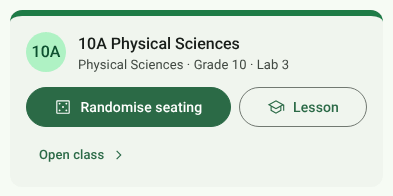
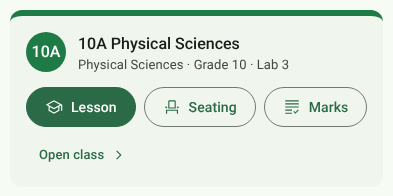
Home cards: Lesson, Seating and Marks, and the circle in the class colour
Each class card now has three buttons in this order: Lesson (filled), Seating
and Marks. Seating opens the class's Seats page, where Randomise is, and Marks
opens its Marks page. The one-tap randomise and the "Seats assigned" lock no
longer show on Home, so the hand-off that started a reroll on arrival at Seats
is removed.

A class with a colour now shows it in the circle with its initials too, with
white text (every class colour carries white text at 4,5:1 or better).

Docs and the Home screenshots are updated; the locked-card screenshot is gone.

Claude-Session: https://claude.ai/code/session_0196FnLqe7iH8D6Bvum5RUph

Changed region(s): [[0.1221, 0.4286, 0.8855, 0.6735], [0.0611, 0.1531, 0.1832, 0.3673]]

diff --git a/src/components/HomeView.tsx b/src/components/HomeView.tsx
@@ -1,8 +1,6 @@
 import { CSSProperties, useState } from "react";
-import { useApp } from "../store/appStore";
+import { View, useApp } from "../store/appStore";
 import { ClassInfo } from "../lib/types";
-import { today } from "../lib/id";
-import { isSeatingLocked, readLessonStart, readSeatedAt } from "../lib/lessonState";
 import { PLUGINS, enabledPlugins } from "../plugins/registry";
 import NewClassModal from "./NewClassModal";
 import Icon from "./Icon";
@@ -16,41 +14,25 @@ function initials(name: string): string {
 }
 
 /**
- * Landing page: every class as a card with the two things a teacher reaches
- * for at the start of a lesson — reroll the seating, or jump into the live
- * lesson. Setup (students, room layout, seating rules) lives under Settings.
+ * Landing page: every class as a card that opens straight into the pages a
+ * teacher reaches for — the live lesson, the seating plan and the marks.
+ * Setup (students, room layout, seating rules) lives under Settings.
  *
  * Below the classes sits Tools: the plugins this teacher has switched on
  * (Settings → Tools). Class-independent extras live here and in the
  * expanded navigation drawer, never among the class's own pages.
  */
 export default function HomeView() {
-  const { classes, currentClass, openClass, setView, setPendingRandomise, createClass, userPrefs, openPlugin, requestSeatingUnlock } =
-    useApp();
-  // Re-read the per-class locks whenever the open class's lock changes.
-  useApp((s) => s.seatingLockedAt);
-  const lockedNow = (name: string) => isSeatingLocked(readSeatedAt(name), readLessonStart(name), today());
+  const { classes, currentClass, openClass, setView, createClass, userPrefs, openPlugin } = useApp();
   const [showNew, setShowNew] = useState(false);
   const active = classes.filter((c) => !c.archived);
   const tools = enabledPlugins(userPrefs.enabledPlugins);
 
   const meta = (c: ClassInfo) => [c.subject, c.year && `Grade ${c.year}`, c.room].filter(Boolean).join(" · ");
 
-  const liveLesson = async (name: string) => {
+  const go = async (name: string, view: View) => {
     await openClass(name);
-    setView("lesson");
-  };
-
-  const randomise = async (name: string) => {
-    await openClass(name);
-    setPendingRandomise(true);
-    setView("seating");
-  };
-
-  // Seats were already assigned this lesson: the PIN unlocks another go.
-  const reseat = async (name: string) => {
-    await openClass(name);
-    await requestSeatingUnlock();
+    setView(view);
   };
 
   return (
@@ -86,23 +68,17 @@ export default function HomeView() {
                 </div>
               </div>
               <div className="class-card-actions">
-                {lockedNow(c.name) ? (
-                  <button
-                    onClick={() => void reseat(c.name)}
-                    title="Seats were assigned this lesson — enter your PIN to assign them again"
-                  >
-                    <Icon name="lock" size={18} /> Seats assigned
-                  </button>
-                ) : (
-                  <button className="primary" onClick={() => void randomise(c.name)}>
-                    <Icon name="casino" size={18} /> Randomise seating
-                  </button>
-                )}
-                <button onClick={() => void liveLesson(c.name)}>
+                <button className="primary" onClick={() => void go(c.name, "lesson")}>
                   <Icon name="school" size={18} /> Lesson
                 </button>
+                <button onClick={() => void go(c.name, "seating")}>
+                  <Icon name="event_seat" size={18} /> Seating
+                </button>
+                <button onClick={() => void go(c.name, "assessments")}>
+                  <Icon name="grading" size={18} /> Marks
+                </button>
               </div>
-              <button className="text small class-card-open" onClick={() => void openClass(c.name).then(() => setView("seating"))}>
+              <button className="text small class-card-open" onClick={() => void go(c.name, "seating")}>
                 Open class <Icon name="chevron_right" size={18} />
               </button>
             </div>

diff --git a/src/store/appStore.ts b/src/store/appStore.ts
@@ -88,8 +88,6 @@ export interface AppState {
    * moment the lock is set or lifted.
    */
   seatingLockedAt: string | null;
-  /** Set by Home to ask the Seating view to auto-run an animated reroll on arrival. */
-  pendingRandomise: boolean;
   /** Id of the plugin the "plugin" view is showing (see src/plugins/registry.ts). */
   activePlugin: string | null;
   /** The student the Dashboard's Student tab shows; null = the Class tab. */
@@ -147,7 +145,6 @@ export interface AppState {
   unlockSeating(): void;
   /** Ask for the reseat PIN (creating one if none is set); true if unlocked. */
   requestSeatingUnlock(): Promise<boolean>;
-  setPendingRandomise(on: boolean): void;
   showToast(message: string, action?: { label: string; run: () => void }): void;
   revealSensitive(): void;
   confirmDialog(opts: Omit<DialogRequest, "kind" | "placeholder" | "initial">): Promise<boolean>;
@@ -237,7 +234,6 @@ export const useApp = create<AppState>((set, get) => {
   focusMode: false,
   focusStyle: "room",
   seatingLockedAt: null,
-  pendingRandomise: false,
   activePlugin: null,
   dashboardStudent: null,
   toast: null,
@@ -410,10 +406,6 @@ export const useApp = create<AppState>((set, get) => {
     get().unlockSeating();
     showToast("Seat assignment unlocked");
     return true;
-  },
-
-  setPendingRandomise(on) {
-    set({ pendingRandomise: on });
   },
 
   showToast(message, action) {

diff --git a/e2e/shell.e2e.ts b/e2e/shell.e2e.ts
@@ -68,9 +68,25 @@ test("a class colour shows on its Home card and under the top bar", async ({ pag
   await page.locator("main button.swatch[title*='Purple']").click();
   await nav(page, "Home");
   await expect(page.locator(".class-card").first()).toHaveClass(/coloured/);
+  // The circle with the class's initials takes its colour too (Purple, #7e3faf).
+  await expect(page.locator(".class-card-avatar").first()).toHaveCSS("background-color", "rgb(126, 63, 175)");
   await nav(page, "Attendance");
   const underline = await page.locator(".top-bar").evaluate((e) => getComputedStyle(e).borderBottomColor);
   expect(underline).not.toBe("rgba(0, 0, 0, 0)");
+});
+
+test("a class card opens its Lesson, Seats and Marks pages", async ({ page }) => {
+  const card = page.locator(".class-card").first();
+  await expect(card.locator(".class-card-actions button")).toHaveText(["Lesson", "Seating", "Marks"]);
+  for (const [button, title] of [
+    ["Lesson", "Lesson"],
+    ["Seating", "Seats"],
+    ["Marks", "Marks"],
+  ]) {
+    await nav(page, "Home");
+    await card.getByRole("button", { name: button, exact: true }).click();
+    await expect(page.locator(".top-bar-title")).toHaveText(title);
+  }
 });
 
 test("Export saves a spreadsheet", async ({ page }) => {

diff --git a/src/components/SeatingView.tsx b/src/components/SeatingView.tsx
@@ -1,4 +1,4 @@
-import { useEffect, useMemo, useState } from "react";
+import { useMemo, useState } from "react";
 import { useApp } from "../store/appStore";
 import { SeatAssignment, studentName } from "../lib/types";
 import { displayStudentName, seatSurname } from "../lib/privacy";
@@ -16,8 +16,6 @@ export default function SeatingView() {
     showToast,
     setView,
     roomConfig,
-    pendingRandomise,
-    setPendingRandomise,
     userPrefs,
     confirmDialog,
     promptDialog,
@@ -109,16 +107,6 @@ export default function SeatingView() {
     setPickedStudent(null);
     randomise(activePlan);
   };
-
-  // Arriving from the Home "Randomise seating" button: run the animated reroll
-  // once the class's desks and students are loaded, then clear the request.
-  useEffect(() => {
-    if (pendingRandomise && desks.length > 0 && students.length > 0 && !isShuffling) {
-      setPendingRandomise(false);
-      randomise(activePlan);
-    }
-    // eslint-disable-next-line react-hooks/exhaustive-deps
-  }, [pendingRandomise, desks.length, students.length]);
 
   return (
     <div>

diff --git a/src/styles.css b/src/styles.css
@@ -1231,6 +1231,8 @@ table.data td input.code-input { font-weight: 700; text-transform: uppercase; }
 
 /* ---------- class colours ---------- */
 .class-card.coloured { border-top: 6px solid var(--class-colour); }
+/* Every class colour is deep enough to carry white text (src/lib/behaviourColours.ts). */
+.class-card.coloured .class-card-avatar { background: var(--class-colour); color: #fff; }
 .class-dot { display: inline-block; flex: none; width: 10px; height: 10px; border-radius: 50%; margin-right: 8px; vertical-align: 0; box-shadow: 0 0 0 1px var(--md-outline-variant); }
 .class-dot.none { background: transparent; box-shadow: inset 0 0 0 1px var(--md-outline); }
 .top-bar { border-bottom: 3px solid var(--class-colour, transparent); }

diff --git a/scripts/screenshots/guide.shots.ts b/scripts/screenshots/guide.shots.ts
@@ -210,9 +210,6 @@ test("seats", async ({ page }) => {
   await page.locator("main button", { hasText: "Reseat" }).click();
   await shotOf(page, modal(page), "reseat-pin-create", 2);
   await modal(page).getByRole("button", { name: "Cancel" }).click();
-
-  await nav(page, "Home");
-  await shotOf(page, page.locator(".class-card").first(), "class-card-locked", 10);
 });
 
 test("lesson", async ({ page }) => {

diff --git a/docs/user-guide/04-seats.md b/docs/user-guide/04-seats.md
@@ -36,7 +36,7 @@ Moving students by hand is never locked.
 
 ## Randomise
 
-Press **Randomise** (or **Randomise seating** on the class's Home card). Names flash across the seats for about a
+Press **Randomise** (**Seating** on the class's Home card brings you here). Names flash across the seats for about a
 second so the class can see it really is a shuffle, then settle.
 
 ![Randomise in progress](../images/seats-randomising.png)
@@ -49,11 +49,10 @@ How it seats the class:
 
 ## Once per lesson, and the reseat PIN
 
-Seats are assigned **once per lesson**, wherever you press Randomise (Seats, Lesson or Home). After that the button
-becomes **🔒 Reseat…** and the Home card shows **🔒 Seats assigned**, so nobody reshuffles the class by accident.
+Seats are assigned **once per lesson**, whether you press Randomise on Seats or Lesson. After that the button
+becomes **🔒 Reseat…**, so nobody reshuffles the class by accident.
 
 ![The toolbar after seats have been assigned](../images/seats-toolbar-locked.png)
-![A class card with seats assigned](../images/class-card-locked.png)
 
 The lock lifts when you **End lesson** (see [Lesson](05-lesson.md#end-lesson)) or on the next day. To assign seats
 again within the same lesson, press **Reseat…** and enter your **reseat PIN**.

diff --git a/docs/user-guide/01-getting-started.md b/docs/user-guide/01-getting-started.md
@@ -76,13 +76,14 @@ Home shows every active class as a card.
 
 | Button | What it does |
 | --- | --- |
-| **Randomise seating** | Opens the class's Seats page and rerolls the seating straight away. |
 | **Lesson** | Opens the class's live Lesson page. |
-| **Open class** | Opens the class's Seats page without changing anything. |
+| **Seating** | Opens the class's Seats page, where you randomise or move students. |
+| **Marks** | Opens the class's Marks page. |
+| **Open class** | Opens the class's Seats page. |
 | **New class** (top right of Home) | Creates a class. |
 
-Once a class's seats have been assigned for the lesson, its card shows **🔒 Seats assigned** instead of
-**Randomise seating** (see [Seats](04-seats.md#once-per-lesson-and-the-reseat-pin)).
+A class with a colour (set on its [Class notes](02-setting-up-a-class.md#class-notes-details-colour-and-notes) page)
+shows it along the top of its card and in the circle with its initials.
 
 Below the classes is the **Tools** section. It stays empty, with a short note, until you switch tools on under
 **Settings → Tools**.

diff --git a/README.md b/README.md
@@ -16,7 +16,7 @@ a folder for your data — ideally inside OneDrive or Google Drive, so it's back
 
 | Page | |
 | --- | --- |
-| **Home** | Every class as a card, with one-tap **Randomise seating** or **Lesson**, plus your switched-on tools. |
+| **Home** | Every class as a card in its own colour, with one-tap **Lesson**, **Seating** and **Marks**, plus your switched-on tools. |
 | **Attendance** | One-tap Present / Absent / Late / Excused register, with rates and history. |
 | **Seats** | Named seating plans. Seat students by hand, or **Randomise** with hidden keep-apart, keep-together and sit-at-the-front rules — once per lesson, then a PIN to reseat. Print for cover teachers. |
 | **Lesson** | The seating plan is the interface: tap a seat to log behaviour, attendance or a bathroom trip. Batch entry, a random student picker, a full-screen or side-panel teaching mode, and **End lesson** to save the seat history. |

diff --git a/docs/README.md b/docs/README.md
@@ -26,7 +26,7 @@ saved as plain files in a folder you choose.
    (ideally inside OneDrive or Google Drive).
 2. **New class** on Home → add students under **Settings → Students** (paste a list with **Import list…**).
 3. Draw the room under **Settings → Room layout**.
-4. **Randomise seating** from the class's Home card.
+4. **Seating** on the class's Home card, then **Randomise**.
 5. Take the register on **Attendance**, then teach from **Lesson**: tap a seat to record behaviour.
 6. Press **End lesson** at the end.
 
